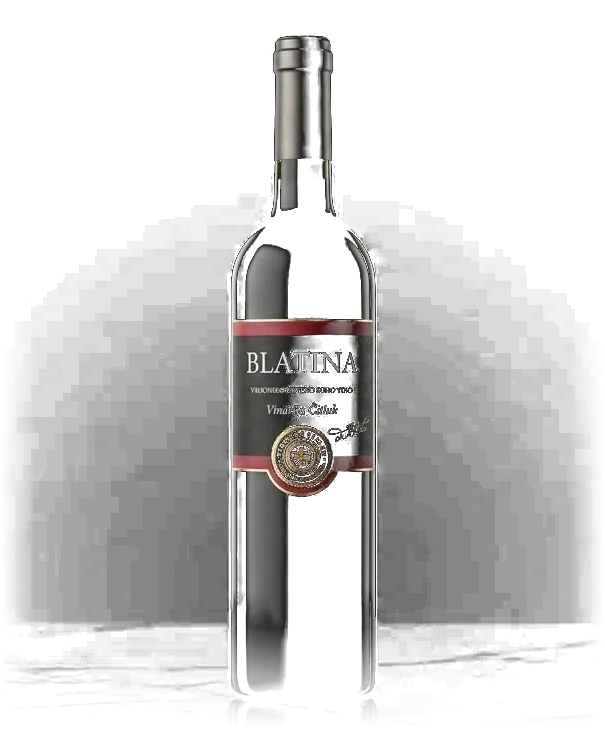
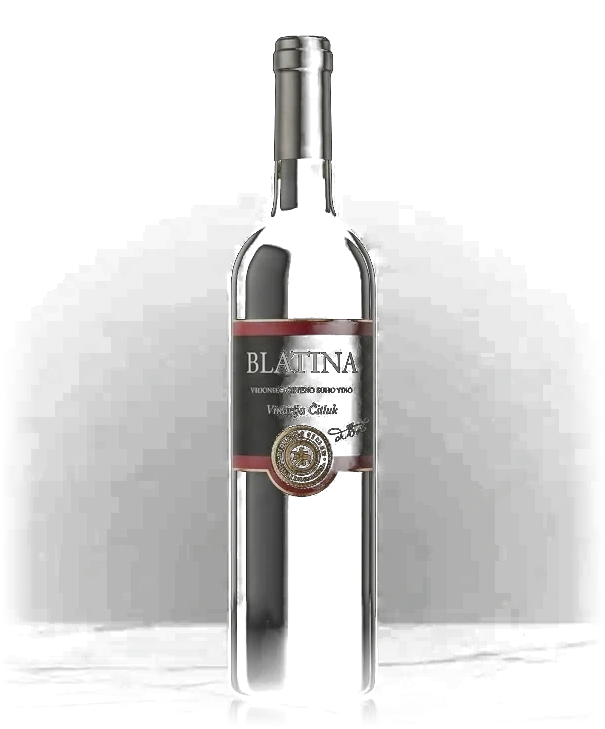
Darken the cut-outs, fix the watermark on phones, add arrival motion
Four things from testing on a real device.

The cut-outs came back brighter than the photographs they were made
from. The alpha ramp lifts everything it touches, halo included, so the
bottles read as lit from the front instead of standing in a dark room —
the exposure is now put back where the original had it, and the halo
gain is lower, so what is left is the bottle rather than a glow around
it.

The watermark was sized from character count against the desktop layout,
where it has half a page to live in. On a phone it has the bottle's own
width, so "2025" was squeezed behind the label and clipped at both ends.
It is now sized against the viewport it is actually in and lifted to sit
across the shoulder, where there is room for it.

"Dodaj u listu" became "Dodaj u korpu", with the trolley rather than the
shopping bag used elsewhere — the one glyph people read as "buy" without
looking. The page's own cart panel follows ("Vaša korpa", "Korpa je
prazna"). Note the homepage still says "lista" throughout; this branch
only changes the product page, so that wording is now inconsistent
between the two until it is decided which one the shop should use.

Arrival motion on the way down: section headers rise with their gold
rule drawing itself under them, aroma chips and serving cards and
pairings arrive in sequence rather than as a block, the two story cards
come in from their own sides, and the hero drifts up at a fraction of
[…]

Changed region(s): [[0.0298, 0.3018, 0.9521, 0.9355], [0.4463, 0.0302, 0.5653, 0.3018], [0.6248, 0.9053, 0.6545, 0.9355]]

diff --git a/vino.css b/vino.css
@@ -976,7 +976,7 @@
   .wp-hero-grid { grid-template-columns: 1fr; gap: 30px; }
   .wp-stage { min-height: 44vh; }
   .wp-bottle { height: 46vh; max-height: 430px; }
-  .wp-ghost { font-size: clamp(5rem, 24vw, 10rem); }
+  .wp-ghost { top: 38%; }
   .wp-type-mark { display: none; }
   .wp-taste-grid { grid-template-columns: 1fr; gap: 40px; }
   .wp-story-grid { grid-template-columns: 1fr; }
@@ -991,9 +991,18 @@
   .wp-section { padding: 52px 0; }
   .wp-section .section-header { margin-bottom: 30px; }
 
-  .wp-stage { min-height: 38vh; }
-  .wp-bottle { height: 42vh; max-height: 360px; max-width: 92%; }
-  .wp-ghost { font-size: clamp(4.5rem, 30vw, 8rem); top: 44%; }
+  .wp-stage { min-height: 40vh; }
+  .wp-bottle { height: 44vh; max-height: 380px; max-width: 92%; }
+
+  /* On a phone the watermark has the bottle's own width to live in, not a
+     half-page column, so it is lifted to sit across the shoulder instead of
+     being squeezed behind the label — and faded further, because at this
+     size it is competing with the bottle rather than sitting behind it. */
+  .wp-ghost {
+    top: 34%;
+    letter-spacing: 0.04em;
+    color: rgba(245, 237, 224, 0.075);
+  }
 
   .wp-title { font-size: clamp(2rem, 9vw, 2.7rem); }
   .wp-producer { font-size: 1.04rem; margin-bottom: 20px; }
@@ -1049,4 +1058,70 @@
    so it is lifted clear while the bar is on screen. */
 @media (max-width: 768px) {
   body:has(.wp-sticky:not([hidden])) .fab-buttons { bottom: 86px; }
+}
+
+/* ==================================================== scroll behaviour */
+
+/* One reveal mechanism for the whole page. Elements declare how they should
+   arrive; the observer only adds .is-shown, so nothing depends on scroll
+   position arithmetic and nothing runs on the scroll thread. */
+[data-rise],
+[data-stagger] > * {
+  opacity: 0;
+  transform: translateY(26px);
+  transition: opacity 0.8s cubic-bezier(0.22, 1, 0.36, 1),
+              transform 0.8s cubic-bezier(0.22, 1, 0.36, 1);
+}
+
+[data-rise].is-shown,
+[data-stagger].is-shown > * {
+  opacity: 1;
+  transform: none;
+}
+
+/* Children arrive in sequence rather than as a block — the difference
+   between a list appearing and a list being laid out in front of you. */
+[data-stagger].is-shown > *:nth-child(1) { transition-delay: 0.04s; }
+[data-stagger].is-shown > *:nth-child(2) { transition-delay: 0.10s; }
+[data-stagger].is-shown > *:nth-child(3) { transition-delay: 0.16s; }
+[data-stagger].is-shown > *:nth-child(4) { transition-delay: 0.22s; }
+[data-stagger].is-shown > *:nth-child(5) { transition-delay: 0.28s; }
+[data-stagger].is-shown > *:nth-child(6) { transition-delay: 0.34s; }
+
+/* The two story cards come in from their own sides, so the pair reads as a
+   spread opening rather than two boxes fading up. */
+.wp-story-grid > *:nth-child(1) { transform: translateY(26px) translateX(-22px); }
+.wp-story-grid > *:nth-child(2) { transform: translateY(26px) translateX(22px); }
+.wp-story-grid.is-shown > * { transform: none; }
+
+/* Section titles get a gold rule that draws itself under them once the
+   heading lands. */
+.wp-section .section-header .divider {
+  transform: scaleX(0);
+  transform-origin: center;
+  transition: transform 0.7s cubic-bezier(0.22, 1, 0.36, 1) 0.25s;
+}
+
+.wp-section .section-header.is-shown .divider { transform: none; }
+
+/* The hero stays put while the page moves over it — the bottle drifts up at
+   a fraction of the scroll speed and dims as the next section arrives, so
+   leaving the hero feels like walking past the bottle rather than cutting to
+   a different screen. Driven by a variable the scroll handler sets. */
+.wp-hero-parallax .wp-stage {
+  transform: translateY(calc(var(--wp-scroll, 0) * -70px));
+  opacity: calc(1 - var(--wp-scroll, 0) * 0.75);
+  will-change: transform, opacity;
+}
+
+.wp-hero-parallax .wp-ghost {
+  transform: translate(-50%, -50%) translateY(calc(var(--wp-scroll, 0) * 46px));
+}
+
+@media (prefers-reduced-motion: reduce) {
+  [data-rise], [data-stagger] > * { opacity: 1 !important; transform: none !important; }
+  .wp-section .section-header .divider { transform: none !important; }
+  .wp-hero-parallax .wp-stage,
+  .wp-hero-parallax .wp-ghost { transform: none !important; opacity: 1 !important; }
+  .wp-cue-line::after { animation: none; }
 }

diff --git a/vino.js b/vino.js
@@ -59,7 +59,7 @@ function renderCart() {
   updateCartCount();
   if (!itemsEl) return;
   if (cart.length === 0) {
-    itemsEl.innerHTML = '<p class="cart-empty">Lista je prazna</p>';
+    itemsEl.innerHTML = '<p class="cart-empty">Korpa je prazna</p>';
     if (footerEl) footerEl.style.display = 'none';
     return;
   }
@@ -105,7 +105,7 @@ function addToCart(id) {
   saveCart();
   renderCart();
   const wine = WINES.find(w => w.id === id);
-  showToast((wine ? wine.name.sr : 'Vino') + ' dodato u listu');
+  showToast((wine ? wine.name.sr : 'Vino') + ' dodato u korpu');
   const btn = document.getElementById('cartBtn');
   if (btn) {
     btn.classList.remove('cart-pulse');
@@ -356,7 +356,11 @@ function render(wine, detail) {
   const ghost = document.getElementById('wpGhost');
   const ghostText = detail.vintage || variety.name.sr;
   ghost.textContent = ghostText;
-  ghost.style.fontSize = 'clamp(4rem, ' + (78 / Math.max(4, ghostText.length)).toFixed(1) + 'vw, 15rem)';
+  // Narrow screens give the watermark the bottle's width rather than half a
+  // page, so it is sized against the viewport it is actually in.
+  const perChar = window.innerWidth < 980 ? 56 : 78;
+  ghost.style.fontSize =
+    'clamp(3rem, ' + (perChar / Math.max(4, ghostText.length)).toFixed(1) + 'vw, 15rem)';
 
   document.getElementById('wineArticle').hidden = false;
 }
@@ -502,6 +506,8 @@ document.addEventListener('DOMContentLoaded', function() {
 
   revealOnScroll();
   measureOnScroll();
+  arrivals();
+  heroParallax();
 });
 
 function wireChrome() {
@@ -584,6 +590,60 @@ function measureOnScroll() {
       }
     });
   }, { threshold: 0.35 }).observe(profile);
+}
+
+// Marks up what should arrive and how. Kept here rather than in the markup
+// so the HTML stays a description of the page and not of its choreography.
+const RISE = [
+  '.wp-taste .wp-aromas', '.wp-taste .wp-profile',
+  '.wp-serve-sec .wp-disclaimer', '.wp-related-more'
+];
+const STAGGER = [
+  '#wpAromas', '#wpServe', '#wpPairing', '.wp-story-grid'
+];
+
+function arrivals() {
+  document.querySelectorAll('.wp-section .section-header').forEach(e => e.dataset.rise = '');
+  RISE.forEach(sel => document.querySelectorAll(sel).forEach(e => e.dataset.rise = ''));
+  STAGGER.forEach(sel => document.querySelectorAll(sel).forEach(e => e.dataset.stagger = ''));
+
+  const targets = document.querySelectorAll('[data-rise], [data-stagger]');
+  if (REDUCED || !('IntersectionObserver' in window)) {
+    targets.forEach(e => e.classList.add('is-shown'));
+    return;
+  }
+  const io = new IntersectionObserver((entries, obs) => {
+    entries.forEach(en => {
+      if (en.isIntersecting) {
+        en.target.classList.add('is-shown');
+        obs.unobserve(en.target);
+      }
+    });
+    // rootMargin lifts the trigger line off the very bottom edge, so things
+    // are already moving by the time they are properly in view rather than
+    // starting the instant they clip the fold.
+  }, { threshold: 0.15, rootMargin: '0px 0px -8% 0px' });
+  targets.forEach(e => io.observe(e));
+}
+
+// Hands the scroll position to CSS as a 0-1 value across the first screen.
+// A custom property rather than inline styles keeps the whole parallax
+// declarative, and the handler stays a single variable write per frame.
+function heroParallax() {
+  const hero = document.querySelector('.wp-hero');
+  if (!hero || REDUCED) return;
+  document.body.classList.add('wp-hero-parallax');
+  let ticking = false;
+  const set = () => {
+    ticking = false;
+    const h = hero.offsetHeight || window.innerHeight;
+    document.body.style.setProperty('--wp-scroll',
+      Math.min(1, Math.max(0, window.scrollY / h)).toFixed(4));
+  };
+  window.addEventListener('scroll', () => {
+    if (!ticking) { ticking = true; requestAnimationFrame(set); }
+  }, { passive: true });
+  set();
 }
 
 function revealOnScroll() {

diff --git a/vino.html b/vino.html
@@ -30,7 +30,7 @@
       href="https://fonts.googleapis.com/css2?family=Cinzel:wght@400;600;700;900&family=Cormorant+Garamond:ital,wght@0,300;0,400;0,500;0,600;0,700;1,400;1,500;1,600&family=Lato:wght@300;400;700&display=swap">
   </noscript>
   <link rel="stylesheet" href="styles.css?v=116">
-  <link rel="stylesheet" href="vino.css?v=6">
+  <link rel="stylesheet" href="vino.css?v=7">
 
   <!-- Microsoft Clarity: session recordings and click heatmaps, project "Hercz Wines". -->
   <script type="text/javascript">
@@ -147,13 +147,16 @@
                   <span class="wp-price" id="wpPrice"></span>
                   <span class="wp-volume" id="wpVolume"></span>
                 </div>
+                <!-- The standard trolley, not the shopping bag used elsewhere
+                     on the site: this is the one glyph people read as "buy"
+                     without looking. -->
                 <button type="button" class="btn btn-primary wp-add" id="wpAdd">
-                  <svg width="20" height="20" viewBox="0 0 24 24" fill="none" stroke="currentColor" stroke-width="1.8" aria-hidden="true">
-                    <path d="M6 2L3 6v14a2 2 0 002 2h14a2 2 0 002-2V6l-3-4z"/>
-                    <line x1="3" y1="6" x2="21" y2="6"/>
-                    <path d="M16 10a4 4 0 01-8 0"/>
+                  <svg width="21" height="21" viewBox="0 0 24 24" fill="none" stroke="currentColor" stroke-width="1.7" stroke-linecap="round" stroke-linejoin="round" aria-hidden="true">
+                    <circle cx="9" cy="20" r="1.6"/>
+                    <circle cx="18" cy="20" r="1.6"/>
+                    <path d="M1.5 2h2.6l2.5 12.1a1.8 1.8 0 001.8 1.4h8.9a1.8 1.8 0 001.8-1.4L21 6H5.2"/>
                   </svg>
-                  <span>Dodaj u listu</span>
+                  <span>Dodaj u korpu</span>
                 </button>
               </div>
 
@@ -282,7 +285,13 @@
         <span class="wp-sticky-name" id="wpStickyName"></span>
         <span class="wp-sticky-price" id="wpStickyPrice"></span>
       </div>
-      <button type="button" class="btn btn-primary wp-sticky-btn" id="wpStickyAdd">Dodaj u listu</button>
+      <button type="button" class="btn btn-primary wp-sticky-btn" id="wpStickyAdd">
+        <svg width="18" height="18" viewBox="0 0 24 24" fill="none" stroke="currentColor" stroke-width="1.7" stroke-linecap="round" stroke-linejoin="round" aria-hidden="true">
+          <circle cx="9" cy="20" r="1.6"/><circle cx="18" cy="20" r="1.6"/>
+          <path d="M1.5 2h2.6l2.5 12.1a1.8 1.8 0 001.8 1.4h8.9a1.8 1.8 0 001.8-1.4L21 6H5.2"/>
+        </svg>
+        <span>Dodaj u korpu</span>
+      </button>
     </div>
   </div>
 
@@ -323,9 +332,9 @@
   </footer>
 
   <div class="cart-overlay" id="cartOverlay"></div>
-  <aside class="cart-sidebar" id="cartSidebar" aria-label="Lista za rezervaciju" inert>
+  <aside class="cart-sidebar" id="cartSidebar" aria-label="Korpa" inert>
     <div class="cart-header">
-      <h3>Vaša lista</h3>
+      <h3>Vaša korpa</h3>
       <button type="button" class="cart-close" id="cartClose" aria-label="Zatvori">&times;</button>
     </div>
     <div class="cart-items" id="cartItems"></div>
@@ -351,6 +360,6 @@
 
   <script src="data.js?v=1"></script>
   <script src="wine-details.js?v=1"></script>
-  <script src="vino.js?v=6"></script>
+  <script src="vino.js?v=7"></script>
 </body>
 </html>

diff --git a/tools-cutout.py b/tools-cutout.py
@@ -26,7 +26,7 @@ from PIL import Image
 CENTRE, HALF_W = 0.50, 0.22
 TOP, BOTTOM = 0.02, 0.97
 
-def cutout(src, dst, gain=1.9, gamma=0.82, solid_at=64):
+def cutout(src, dst, gain=1.45, gamma=0.88, solid_at=70, dim=0.84):
     im = Image.open(src).convert('RGB')
     a = np.asarray(im).astype(np.float32)
     lum = 0.299*a[:,:,0] + 0.587*a[:,:,1] + 0.114*a[:,:,2]
@@ -56,7 +56,13 @@ def cutout(src, dst, gain=1.9, gamma=0.82, solid_at=64):
     al[:, L:L+edge] *= ramp[None, :]
     al[:, R-edge:R] *= ramp[::-1][None, :]
 
-    out = Image.fromarray(a.astype(np.uint8), 'RGB').convert('RGBA')
+    # The ramp lifts the whole bottle, halo included, so the cut-outs came
+    # back brighter than the photographs they were made from and read as lit
+    # from the front rather than standing in a dark room. `dim` puts the
+    # exposure back where the original had it.
+    a = a * dim
+
+    out = Image.fromarray(np.clip(a, 0, 255).astype(np.uint8), 'RGB').convert('RGBA')
     out.putalpha(Image.fromarray((al*255).astype(np.uint8), 'L'))
     out = out.crop((L, T, R, B))
     out.save(dst, 'WEBP', quality=92, method=6, exact=True)
